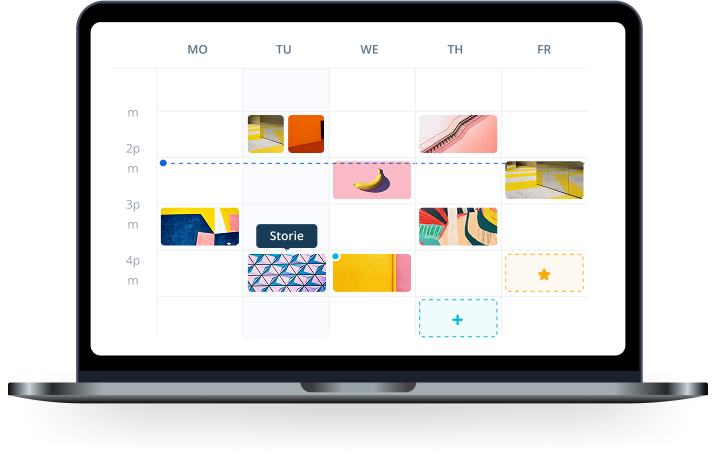
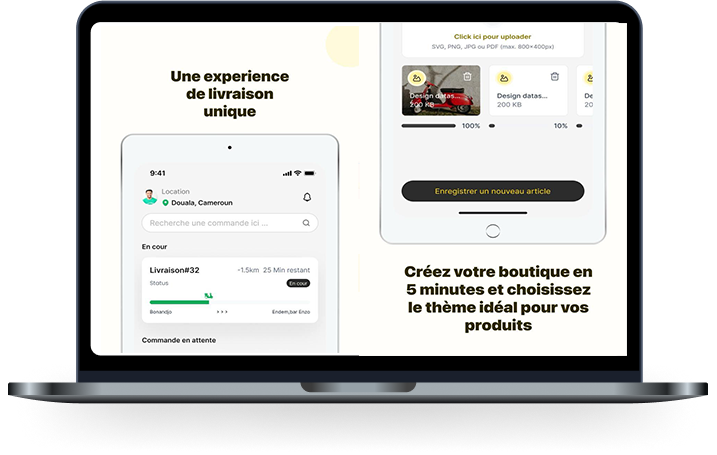
final site web

diff --git a/components/AppDownload.tsx b/components/AppDownload.tsx
@@ -14,65 +14,72 @@ const AppDownload = () => {
   };
 
   return (
-    <div className="bg-[#081315] py-16 flex flex-col items-center gap-8 px-4">
-      {/* Titre */}
-      <motion.h2
-        custom={0}
-        initial="hidden"
-        whileInView="visible"
-        viewport={{ once: true }}
-        variants={textVariant}
-        className="text-3xl md:text-4xl font-bold text-white text-center"
-      >
-        Téléchargez notre application
-      </motion.h2>
+    <div
+      className="relative h-[80vh] bg-fixed bg-center bg-cover bg-no-repeat"
+      style={{
+        backgroundImage: "url('/images/bg-app.png')", // remplace par ton image
+      }}
+    >
+      {/* Overlay semi-transparent */}
+      <div className="absolute inset-0 bg-black/70"></div>
 
-      {/* Description */}
-      <motion.p
-        custom={1}
-        initial="hidden"
-        whileInView="visible"
-        viewport={{ once: true }}
-        variants={textVariant}
-        className="text-[#D3D6D8] text-center max-w-xl"
-      >
-        Découvrez toutes les fonctionnalités de La Passerelle sur votre mobile.
-        Disponible sur iOS et Android.
-      </motion.p>
-
-      {/* Boutons */}
+      {/* Contenu animé */}
       <motion.div
-        initial={{ opacity: 0, scale: 0.9 }}
-        whileInView={{ opacity: 1, scale: 1 }}
-        transition={{ duration: 0.5, type: "spring", stiffness: 80 }}
+        initial="hidden"
+        whileInView="visible"
         viewport={{ once: true }}
-        className="flex gap-6 flex-wrap justify-center mt-4"
+        variants={textVariant}
+        className="relative z-10 flex flex-col items-center justify-center h-full text-white px-4 gap-6"
       >
-        <a
-          href="https://apps.apple.com/us/app/la-passerelle/id6742491347"
-          target="_blank"
-          rel="noopener noreferrer"
-          className="flex items-center gap-3 bg-[#000000] text-white px-6 py-3 rounded-lg hover:bg-[#333333] transition transform hover:-translate-y-1 hover:scale-105"
+        <motion.h2
+          custom={0}
+          variants={textVariant}
+          className="text-3xl md:text-4xl font-bold text-center"
         >
-          <FaApple className="text-2xl" />
-          <div className="flex flex-col text-left">
-            <span className="text-[12px]">Télécharger sur</span>
-            <span className="font-bold text-[16px]">App Store</span>
-          </div>
-        </a>
+          Découvrez notre application mobile
+        </motion.h2>
 
-        <a
-          href="https://play.google.com/store/apps/details?id=com.ikoumalabs.ikouma_labs"
-          target="_blank"
-          rel="noopener noreferrer"
-          className="flex items-center gap-3 bg-[#000000] text-white px-6 py-3 rounded-lg hover:bg-[#333333] transition transform hover:-translate-y-1 hover:scale-105"
+        <motion.p
+          custom={1}
+          variants={textVariant}
+          className="max-w-xl text-center text-lg"
         >
-          <FaGooglePlay className="text-2xl" />
-          <div className="flex flex-col text-left">
-            <span className="text-[12px]">Disponible sur</span>
-            <span className="font-bold text-[16px]">Google Play</span>
-          </div>
-        </a>
+          Profitez d’une expérience unique avec notre application mobile.
+        </motion.p>
+
+        <motion.div
+          initial={{ opacity: 0, scale: 0.9 }}
+          whileInView={{ opacity: 1, scale: 1 }}
+          transition={{ duration: 0.5, type: "spring", stiffness: 80 }}
+          viewport={{ once: true }}
+          className="flex gap-6 flex-wrap justify-center"
+        >
+          <a
+            href="https://apps.apple.com/us/app/la-passerelle/id6742491347"
+            target="_blank"
+            rel="noopener noreferrer"
+            className="flex items-center gap-3 bg-[#000000]/70 px-6 py-3 rounded-lg hover:bg-[#000000]/90 transition transform hover:-translate-y-1 hover:scale-105"
+          >
+            <FaApple className="text-2xl" />
+            <div className="flex flex-col text-left">
+              <span className="text-[12px]">Télécharger sur</span>
+              <span className="font-bold text-[16px]">App Store</span>
+            </div>
+          </a>
+
+          <a
+            href="https://play.google.com/store/apps/details?id=com.ikoumalabs.ikouma_labs"
+            target="_blank"
+            rel="noopener noreferrer"
+            className="flex items-center gap-3 bg-[#000000]/70 px-6 py-3 rounded-lg hover:bg-[#000000]/90 transition transform hover:-translate-y-1 hover:scale-105"
+          >
+            <FaGooglePlay className="text-2xl" />
+            <div className="flex flex-col text-left">
+              <span className="text-[12px]">Disponible sur</span>
+              <span className="font-bold text-[16px]">Google Play</span>
+            </div>
+          </a>
+        </motion.div>
       </motion.div>
     </div>
   );
